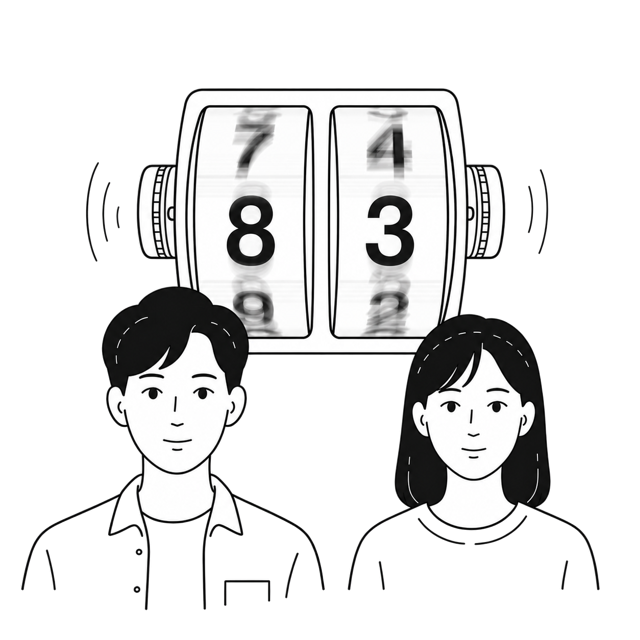
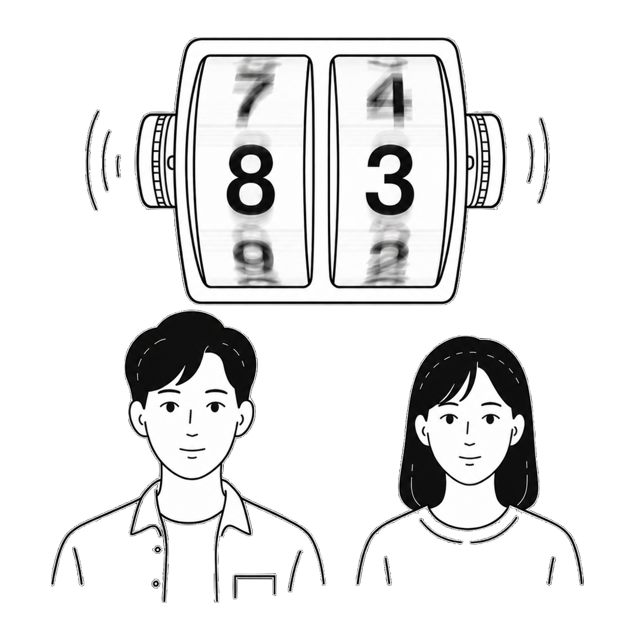
feat(궁합): unlock 다이얼로그 숫자 휠을 실제로 돌린다
compatibility.png 의 숫자창 두 칸(asset 640 좌표계 x 203~306 / 335~438,
y 57~285)을 흰색으로 덮고 그 위에서 0~9 를 무한 스크롤한다. 결제 전이라
점수가 정해지지 않은 상태이므로 특정 숫자에 멈추지 않는다.

컨트롤러 하나를 두 릴이 공유하되 주기당 넘기는 칸 수를 30 / 40 으로 달리
줘서 좌우가 어긋나 돈다. 10 의 배수라 주기 경계에서 숫자가 튀지 않는다.
위·아래 흰색 그라데이션이 원본 일러스트의 모션블러를 대신한다.

Changed region(s): [[0.0312, 0.0312, 0.9375, 0.9688]]

diff --git a/flutter/lib/presentation/widgets/spinning_number_wheel.dart b/flutter/lib/presentation/widgets/spinning_number_wheel.dart
@@ -1,0 +1,186 @@
+import 'package:facely/core/theme.dart';
+import 'package:flutter/material.dart';
+
+/// compatibility.png 일러스트 + 계속 회전하는 숫자 릴 두 개.
+///
+/// 일러스트 자체에 그려진 숫자창 두 칸을 흰색으로 덮고 그 위에서 0~9 를
+/// 무한 스크롤한다. 결제 전이라 점수가 정해지지 않은 상태이므로 특정 숫자에
+/// 멈추지 않고 다이얼로그가 떠 있는 동안 계속 돈다.
+
+/// 원본 일러스트 한 변(px). 아래 좌표 상수는 전부 이 좌표계 기준 실측값이다.
+const double _kArtSize = 640;
+
+/// 숫자창 안쪽 사각형 — 테두리 선(54~56 / 286~287)은 덮지 않는다.
+const double _kWindowTop = 57;
+const double _kWindowHeight = 229;
+const double _kWindowWidth = 104;
+const double _kLeftWindowX = 203;
+const double _kRightWindowX = 335;
+
+/// 창 모서리 곡률. 원본 창의 둥근 모서리 선을 가리지 않기 위한 값.
+const double _kWindowRadius = 10;
+
+/// 숫자 한 칸의 높이 / 창 높이. 0.5 면 원본처럼 가운데 숫자 하나와
+/// 위아래 숫자가 절반씩 보인다.
+const double _kCellRatio = 0.5;
+
+/// 숫자 글자 크기 / 창 높이.
+const double _kDigitRatio = 0.56;
+
+/// 한 바퀴(=controller 1주기) 동안 각 릴이 넘기는 숫자 수.
+/// 10 의 배수여야 주기가 넘어갈 때 숫자가 튀지 않는다.
+/// 두 값을 다르게 둬서 좌우 릴이 어긋나 돈다.
+const int _kLeftCellsPerLoop = 30;
+const int _kRightCellsPerLoop = 40;
+
+const Duration _kLoopDuration = Duration(seconds: 8);
+
+/// 원본 일러스트의 숫자와 같은 먹색.
+const Color _kDigitColor = Color(0xFF1F1F1F);
+
+class SpinningNumberWheel extends StatefulWidget {
+  const SpinningNumberWheel({super.key, required this.size});
+
+  /// 정사각 일러스트의 한 변.
+  final double size;
+
+  @override
+  State<SpinningNumberWheel> createState() => _SpinningNumberWheelState();
+}
+
+class _SpinningNumberWheelState extends State<SpinningNumberWheel>
+    with SingleTickerProviderStateMixin {
+  late final AnimationController _controller = AnimationController(
+    vsync: this,
+    duration: _kLoopDuration,
+  )..repeat();
+
+  @override
+  void dispose() {
+    _controller.dispose();
+    super.dispose();
+  }
+
+  @override
+  Widget build(BuildContext context) {
+    // asset px → logical px.
+    final scale = widget.size / _kArtSize;
+    return SizedBox(
+      width: widget.size,
+      height: widget.size,
+      child: Stack(
+        children: [
+          Image.asset(
+            'assets/images/compatibility.png',
+            width: widget.size,
+            height: widget.size,
+            fit: BoxFit.contain,
+          ),
+          _reel(scale, _kLeftWindowX, _kLeftCellsPerLoop),
+          _reel(scale, _kRightWindowX, _kRightCellsPerLoop),
+        ],
+      ),
+    );
+  }
+
+  Widget _reel(double scale, double windowX, int cellsPerLoop) {
+    return Positioned(
+      left: windowX * scale,
+      top: _kWindowTop * scale,
+      width: _kWindowWidth * scale,
+      height: _kWindowHeight * scale,
+      child: ClipRRect(
+        borderRadius: BorderRadius.circular(_kWindowRadius * scale),
+        child: ColoredBox(
+          color: AppColors.background,
+          child: _DigitReel(
+            spin: _controller,
+            cellsPerLoop: cellsPerLoop,
+            windowHeight: _kWindowHeight * scale,
+          ),
+        ),
+      ),
+    );
+  }
+}
+
+/// 창 하나 안에서 0~9 를 무한히 흘려보내는 릴.
+class _DigitReel extends StatelessWidget {
+  const _DigitReel({
+    required this.spin,
+    required this.cellsPerLoop,
+    required this.windowHeight,
+  });
+
+  final Animation<double> spin;
+  final int cellsPerLoop;
+  final double windowHeight;
+
+  @override
+  Widget build(BuildContext context) {
+    final cell = windowHeight * _kCellRatio;
+    final style = AppText.modalTitle.copyWith(
+      fontSize: windowHeight * _kDigitRatio,
+      fontWeight: FontWeight.w700,
+      color: _kDigitColor,
+      height: 1,
+    );
+    return Stack(
+      fit: StackFit.expand,
+      children: [
+        AnimatedBuilder(
+          animation: spin,
+          builder: (context, _) {
+            // 흘러간 칸 수. 정수부가 맨 위 칸의 숫자, 소수부가 스크롤 위치.
+            final position = spin.value * cellsPerLoop;
+            final firstDigit = position.floor();
+            final offset = position - firstDigit;
+            return Stack(
+              children: [
+                Positioned(
+                  left: 0,
+                  right: 0,
+                  // 위로 반 칸 올려야 가운데 칸이 창 정중앙에 온다.
+                  top: -(0.5 + offset) * cell,
+                  child: Column(
+                    mainAxisSize: MainAxisSize.min,
+                    children: [
+                      for (int i = 0; i < 4; i++)
+                        SizedBox(
+                          height: cell,
+                          child: Center(
+                            child: Text(
+                              '${(firstDigit + i) % 10}',
+                              style: style,
+                            ),
+                          ),
+                        ),
+                    ],
+                  ),
+                ),
+              ],
+            );
+          },
+        ),
+        // 위·아래 흰색 페이드 — 원본 일러스트의 회전 모션블러를 대신한다.
+        IgnorePointer(
+          child: DecoratedBox(
+            decoration: BoxDecoration(
+              gradient: LinearGradient(
+                begin: Alignment.topCenter,
+                end: Alignment.bottomCenter,
+                colors: [
+                  AppColors.background,
+                  AppColors.background.withValues(alpha: 0),
+                  AppColors.background.withValues(alpha: 0),
+                  AppColors.background,
+                ],
+                stops: const [0, 0.3, 0.7, 1],
+              ),
+            ),
+          ),
+        ),
+      ],
+    );
+  }
+}

diff --git a/flutter/test/spinning_number_wheel_test.dart b/flutter/test/spinning_number_wheel_test.dart
@@ -1,0 +1,43 @@
+// 궁합 unlock 다이얼로그의 회전 숫자 휠 — 창 두 칸이 계속 돌고,
+// 릴이 창 밖으로 넘쳐 레이아웃 예외를 내지 않아야 한다.
+//
+// 실행: flutter test test/spinning_number_wheel_test.dart
+
+import 'package:flutter/material.dart';
+import 'package:flutter_test/flutter_test.dart';
+
+import 'package:facely/presentation/widgets/spinning_number_wheel.dart';
+
+List<String> _digits(WidgetTester tester) => tester
+    .widgetList<Text>(find.byType(Text))
+    .map((t) => t.data!)
+    .toList(growable: false);
+
+void main() {
+  testWidgets('릴 두 개가 각각 숫자 4칸을 그린다', (tester) async {
+    await tester.pumpWidget(
+      const MaterialApp(
+        home: Scaffold(body: Center(child: SpinningNumberWheel(size: 200))),
+      ),
+    );
+    final digits = _digits(tester);
+    expect(digits, hasLength(8)); // 창 2개 × 4칸
+    expect(digits.every((d) => RegExp(r'^[0-9]$').hasMatch(d)), isTrue);
+    expect(tester.takeException(), isNull);
+  });
+
+  testWidgets('시간이 지나면 숫자가 계속 바뀐다', (tester) async {
+    await tester.pumpWidget(
+      const MaterialApp(
+        home: Scaffold(body: Center(child: SpinningNumberWheel(size: 200))),
+      ),
+    );
+    final before = _digits(tester);
+    await tester.pump(const Duration(seconds: 1));
+    expect(_digits(tester), isNot(equals(before)));
+    // 한 주기(8초)를 넘겨도 멈추거나 예외를 내지 않는다.
+    await tester.pump(const Duration(seconds: 8));
+    expect(_digits(tester), hasLength(8));
+    expect(tester.takeException(), isNull);
+  });
+}

diff --git a/flutter/lib/presentation/screens/compatibility/compatibility_unlock_action.dart b/flutter/lib/presentation/screens/compatibility/compatibility_unlock_action.dart
@@ -11,6 +11,7 @@ import 'package:facely/presentation/providers/compatibility_provider.dart';
 import 'package:facely/presentation/providers/history_provider.dart';
 import 'package:facely/presentation/widgets/login_bottom_sheet.dart';
 import 'package:facely/presentation/widgets/purchase_sheet.dart';
+import 'package:facely/presentation/widgets/spinning_number_wheel.dart';
 import 'package:flutter/material.dart';
 import 'package:flutter_riverpod/flutter_riverpod.dart';
 
@@ -164,7 +165,7 @@ Future<void> _ensureSupabaseId(WidgetRef ref, FaceReadingReport report) async {
 }
 
 /// "1코인이 필요합니다" 확인 다이얼로그 — 카메라 path 의 instructional modal 과
-/// 동일 스타일 (compatibility.png + 타이틀 + 안내 + [취소] [궁합보기]).
+/// 동일 스타일 (회전하는 숫자 휠 일러스트 + 타이틀 + 안내 + [취소] [궁합보기]).
 Future<bool?> _showConfirmDialog(BuildContext context) {
   return showDialog<bool>(
     context: context,
@@ -181,11 +182,7 @@ Future<bool?> _showConfirmDialog(BuildContext context) {
         child: Column(
           mainAxisSize: MainAxisSize.min,
           children: [
-            Image.asset(
-              'assets/images/compatibility.png',
-              height: 200,
-              fit: BoxFit.contain,
-            ),
+            const SpinningNumberWheel(size: 200),
             const SizedBox(height: 16),
             Text(
               '궁합 보기',
